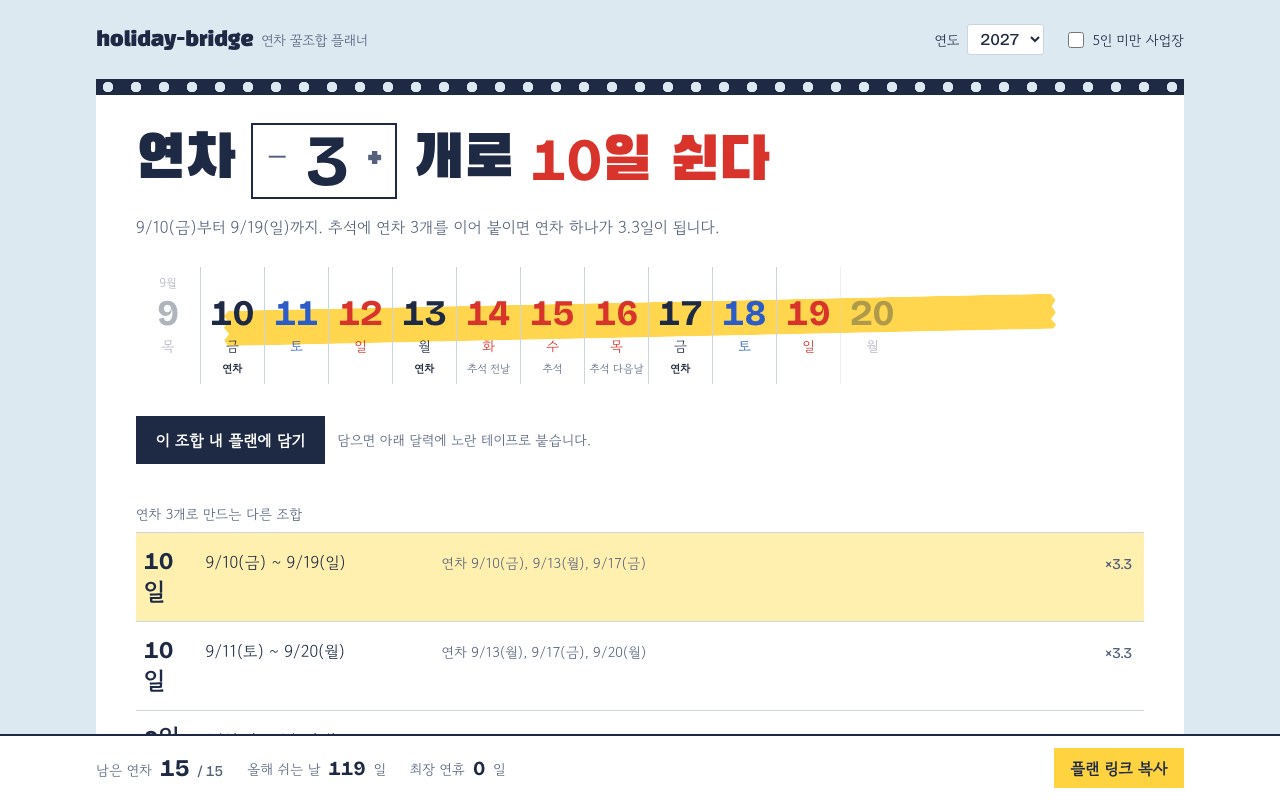
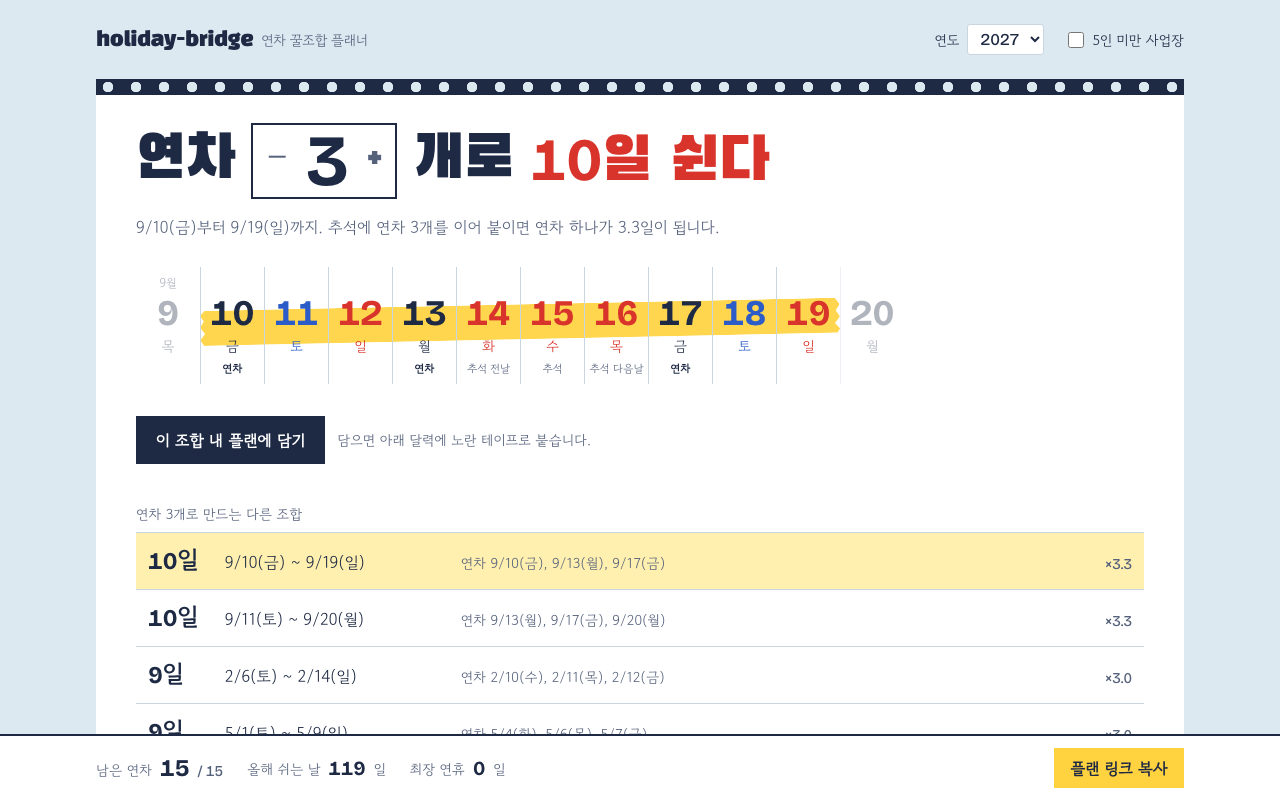
히어로 테이프를 연휴 칸 경계에 정확히 맞춤, 조합 목록 일수 줄바꿈 수정, 스크린샷 교체

diff --git a/src/App.tsx b/src/App.tsx
@@ -329,7 +329,7 @@ function DateStrip({ days, streak }: { days: Day[]; streak: Streak }) {
         <div
           aria-hidden
           className="tape tape-press absolute top-[38%] h-[30%]"
-          style={{ left: `calc(${(firstIn / n) * 100}% + 4px)`, width: `calc(${(streak.length / n) * 100}% - 8px)` }}
+          style={{ left: `${(firstIn / n) * 100}%`, width: `${(streak.length / n) * 100}%` }}
         />
         <div className="relative flex">
           {cells.map((d) => {
